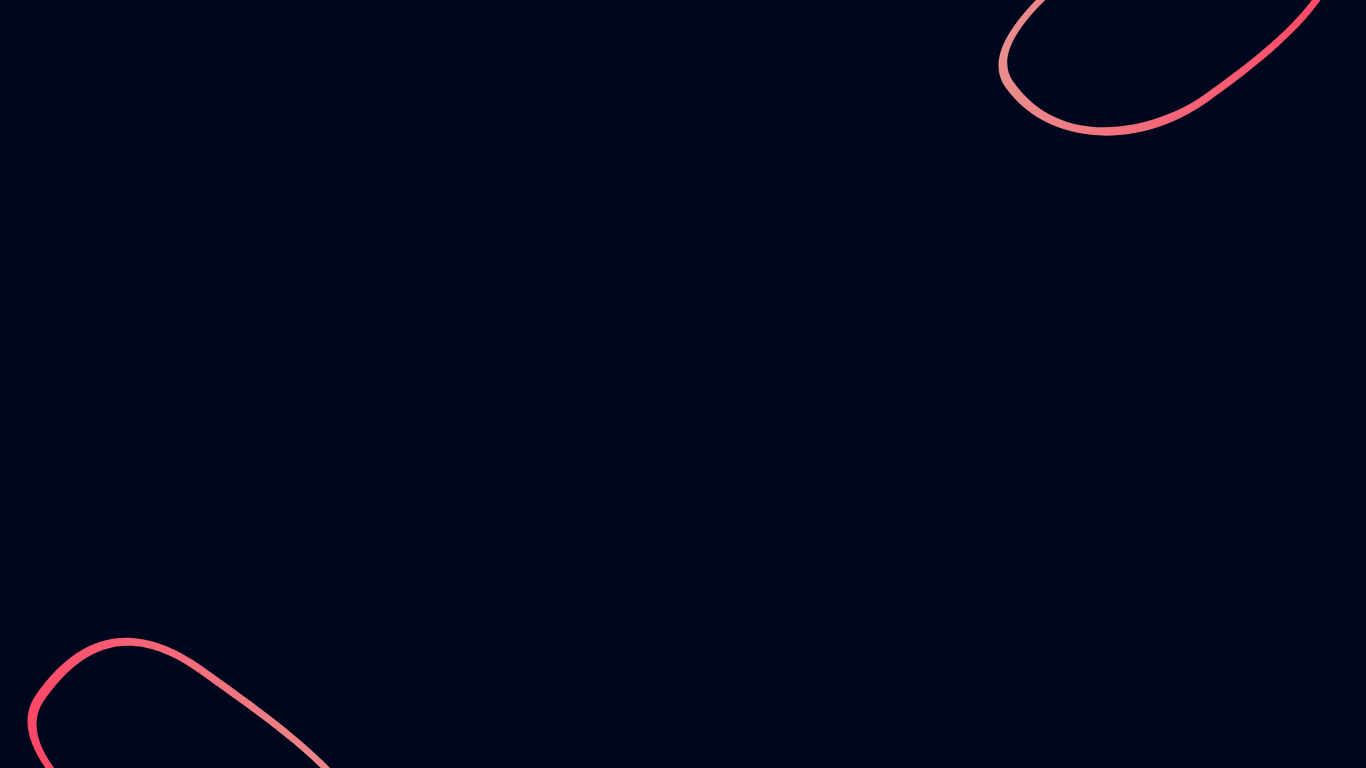
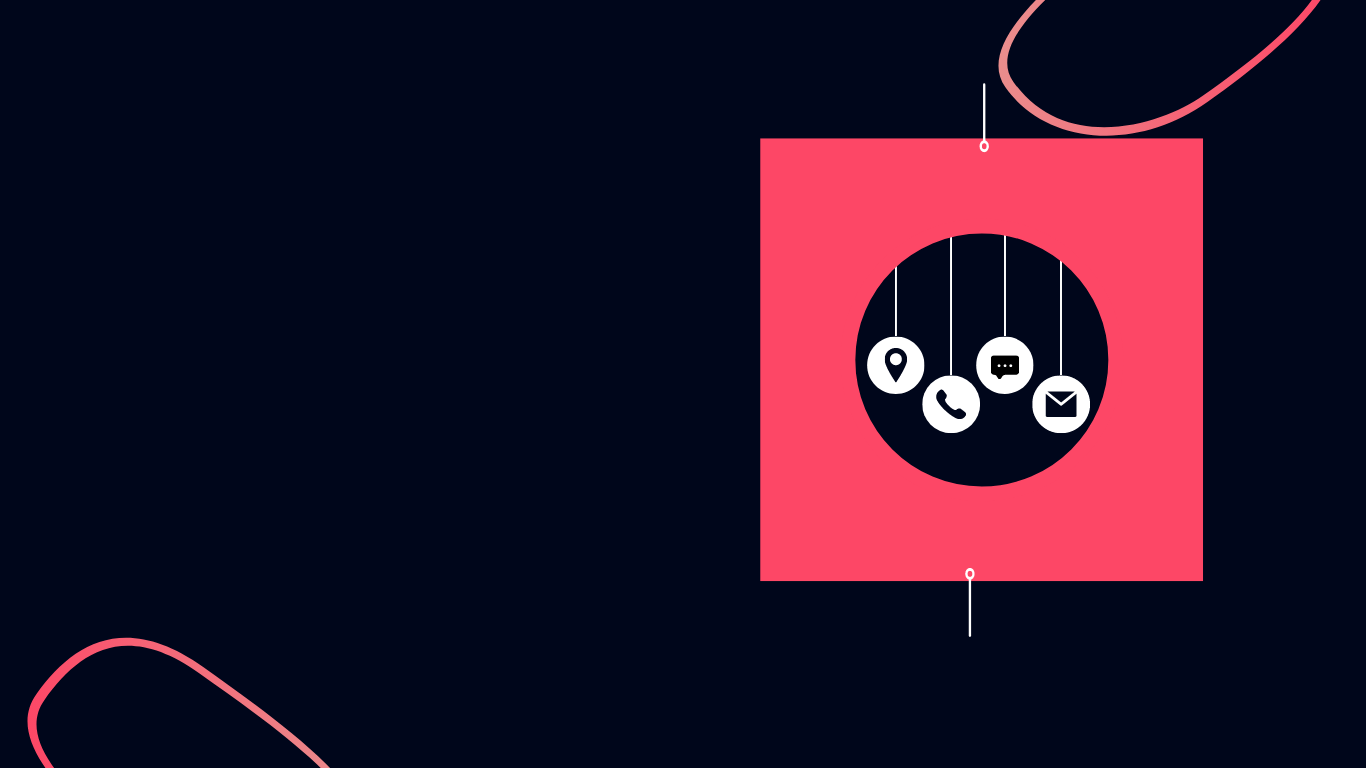
change

Changed region(s): [[0.5534, 0.1562, 0.8917, 0.7812]]

diff --git a/index.html b/index.html
@@ -317,9 +317,11 @@
                         </button>
                     </form>
                 </div>
-                <div class="col-lg-6 order-1 mb-4 order-lg-1 mb-lg-0">
+
+                <!-- <div class="col-lg-6 order-1 mb-4 order-lg-1 mb-lg-0">
                     <img src="./images/contact.png" alt="ContactImg" class="img-fluid">
-                </div>
+                </div> -->
+
             </div>
 
         </div>
